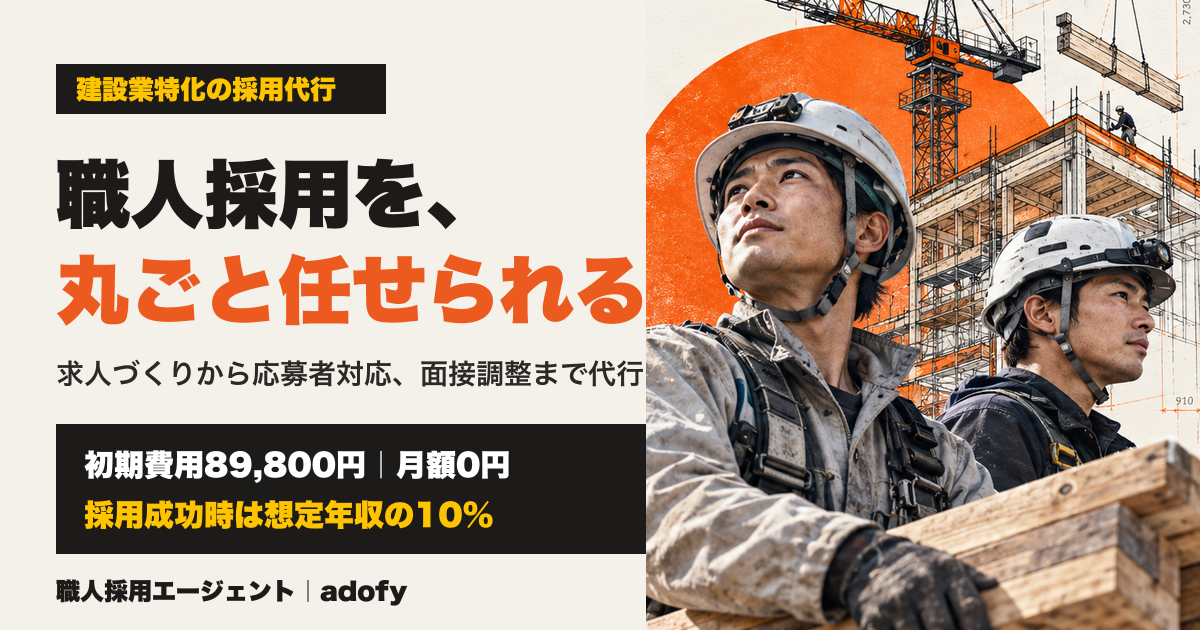
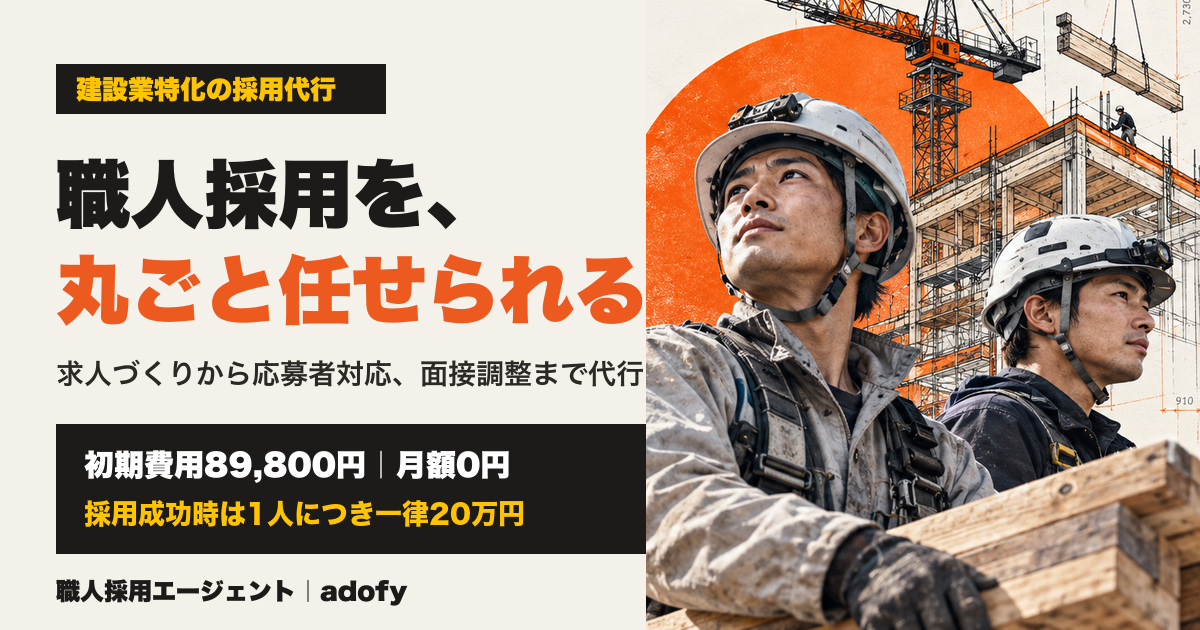
職人採用エージェントLP：成功報酬を1人につき一律20万円に変更（画像・比較・料金・FAQ・表記）

Changed region(s): [[0.0617, 0.7841, 0.4317, 0.8444]]

diff --git a/components/shokunin-agent/config.ts b/components/shokunin-agent/config.ts
@@ -44,13 +44,15 @@ export const NAV = [
 ] as const;
 
 /* ─── 料金（このLPの唯一の価格ソース） ─── */
-export const PRICE = { initial: 89800, monthly: 0, rate: 10 } as const;
-export const EXAMPLE_INCOME = 4_000_000;
-export const EXAMPLE_FEE = (EXAMPLE_INCOME * PRICE.rate) / 100;
-export const EXAMPLE_TOTAL = PRICE.initial + EXAMPLE_FEE;
+/** 成功報酬は採用1人につき一律（年収・職種によらない） */
+export const PRICE = { initial: 89800, monthly: 0, successFee: 200_000 } as const;
 export const yen = (n: number) => n.toLocaleString("ja-JP");
+/** 200000 → "20" （万円表記用） */
+export const SUCCESS_FEE_MAN = yen(PRICE.successFee / 10000);
+/** 1人採用したときの総額（初期費用＋成功報酬） */
+export const EXAMPLE_TOTAL = PRICE.initial + PRICE.successFee;
 
-export const PRICE_LINE = [`初期費用${yen(PRICE.initial)}円`, `月額${PRICE.monthly}円`, `採用成功時は想定年収の${PRICE.rate}%`] as const;
+export const PRICE_LINE = [`初期費用${yen(PRICE.initial)}円`, `月額${PRICE.monthly}円`, `採用成功時は1人につき一律${SUCCESS_FEE_MAN}万円`] as const;
 export const PRICE_FOOTNOTE = "詳細な料金条件は、ご契約前に書面でご案内します。";
 
 /* ─── FV ─── */
@@ -64,9 +66,9 @@ export const HERO = {
   ],
   /** 建設版の採用レスキュー（/kensetsu）と同じFV画像。見出し・料金は画像に焼き込み済み */
   image: {
-    pc: { src: "/images/saiyo-rescue/kensetsu/hero-pc.webp", w: 1672, h: 941 },
-    sp: { src: "/images/saiyo-rescue/kensetsu/hero-sp.webp", w: 941, h: 1672 },
-    alt: "建設業に特化した採用支援。人が足りずに、仕事を断っていませんか？職人・現場スタッフの応募獲得を支援。月額費用0円、初期費用89,800円、成果報酬は想定年収の10%。",
+    pc: { src: "/images/shokunin-agent/hero-pc.webp", w: 1672, h: 941 },
+    sp: { src: "/images/shokunin-agent/hero-sp.webp", w: 941, h: 1672 },
+    alt: "建設業に特化した採用支援。人が足りずに、仕事を断っていませんか？職人・現場スタッフの応募獲得を支援。月額費用0円、初期費用89,800円、成果報酬は一律20万円。",
   },
 } as const;
 
@@ -81,7 +83,7 @@ export const COST = {
       ["採用コスト", "103.3万円"],
       ["月額費用", "採用方法に|よって発生"],
       ["成功報酬", "―"],
-      ["想定年収|400万円の場合", "103.3万円"],
+      ["1人|採用した場合", "103.3万円"],
       ["応募者対応", "自社対応を|含む"],
       ["面接日程の|調整", "自社対応を|含む"],
     ],
@@ -93,19 +95,19 @@ export const COST = {
     rows: [
       ["採用コスト", `初期費用|${yen(PRICE.initial)}円|＋成功報酬`],
       ["月額費用", "0円"],
-      ["成功報酬", `想定年収の${PRICE.rate}%`],
-      ["想定年収|400万円の場合", `${yen(EXAMPLE_FEE / 10000)}万円`],
+      ["成功報酬", `1人につき|一律${SUCCESS_FEE_MAN}万円`],
+      ["1人|採用した場合", `${yen(EXAMPLE_TOTAL)}円`],
       ["応募者対応", "当社が|代行"],
       ["面接日程の|調整", "当社が|代行"],
     ],
   },
-  calc: [["成功報酬", `${yen(EXAMPLE_FEE)}円`]],
-  diff: "想定年収400万円の採用なら、|サービス料金は|平均採用コストより|**約54万円低い設計**",
+  calc: [["成功報酬（1人）", `${yen(PRICE.successFee)}円`]],
+  diff: "1人採用した場合、|サービス料金は|平均採用コストより|**約74万円低い設計**",
   cta: "採用コストを相談する",
   notes: [
     "出典：株式会社リクルート 就職みらい研究所『就職白書2020』。103.3万円は2019年度の中途採用1人あたりの平均採用コストであり、リクルートが提供する特定サービスの料金ではありません。",
     // 指定文の「広告費などの実費は含んでいません」は、広告費の負担条件を確認できるまで掲載しない
-    "約54万円の差は、想定年収400万円で採用した場合の成功報酬40万円に初期費用89,800円を足した489,800円との計算例です。広告費の扱いは、無料相談時に個別にご案内します。実際の費用は採用条件によって異なります。",
+    "約74万円の差は、1人採用した場合の成功報酬20万円に初期費用89,800円を足した289,800円との計算例です。広告費の扱いは、無料相談時に個別にご案内します。実際の費用は採用条件によって異なります。",
   ],
 } as const;
 
@@ -218,7 +220,7 @@ export const FLOW = [
 export const FAQS: { q: string; a: string[] }[] = [
   {
     q: "本当に月額費用はかかりませんか？",
-    a: [`はい。**月額費用は0円**です。料金は、初期費用${yen(PRICE.initial)}円と、採用成功時の成功報酬（想定年収の${PRICE.rate}%）です。${PRICE_FOOTNOTE}`],
+    a: [`はい。**月額費用は0円**です。料金は、初期費用${yen(PRICE.initial)}円と、採用成功時の成功報酬（1人につき一律${SUCCESS_FEE_MAN}万円）です。${PRICE_FOOTNOTE}`],
   },
   { q: "どのような職種に対応していますか？", a: [`${TRADES.join("、")}などの職種に対応しています。`] },
   {

diff --git a/components/shokunin-agent/Sections.tsx b/components/shokunin-agent/Sections.tsx
@@ -25,7 +25,7 @@ import {
   CTA_MAIN,
   CTA_WAITING,
   CTA_SUB,
-  EXAMPLE_FEE,
+  SUCCESS_FEE_MAN,
   FAQS,
   FINAL_TITLE,
   FLOW,
@@ -124,9 +124,9 @@ function PriceSummary() {
       <div>
         <dt>採用成功時</dt>
         <dd>
-          <small>想定年収の</small>
-          <b>{PRICE.rate}</b>
-          <span>%</span>
+          <small>一律</small>
+          <b>{SUCCESS_FEE_MAN}</b>
+          <span>万円</span>
         </dd>
       </div>
     </dl>
@@ -242,7 +242,7 @@ export function Cost() {
             <li key={n}>{n}</li>
           ))}
         </ul>
-        <dl className="sa-cost__calc" aria-label="想定年収400万円の場合の計算例">
+        <dl className="sa-cost__calc" aria-label="1人採用した場合の計算例">
           {COST.calc.map(([k, v]) => (
             <div key={k}>
               <dt>{k}</dt>
@@ -493,15 +493,15 @@ export function Pricing() {
             <div className="ks-plan__row">
               <p className="ks-plan__label">採用成功報酬</p>
               <p className="ks-plan__price">
-                <small>想定年収の</small>
-                <b>{PRICE.rate}</b>
-                <span>%</span>
+                <small>1人につき一律</small>
+                <b>{SUCCESS_FEE_MAN}</b>
+                <span>万円</span>
               </p>
             </div>
           </div>
           <div className="ks-plan__example">
             <p className="ks-plan__example-title">計算例</p>
-            <p className="sa-example">想定年収400万円の場合、採用成功報酬は{yen(EXAMPLE_FEE / 10000)}万円</p>
+            <p className="sa-example">2人採用した場合、採用成功報酬は{yen((PRICE.successFee * 2) / 10000)}万円</p>
           </div>
           <div className="ks-plan__cta">
             <Cta location="pricing" label="自社の場合の料金を相談する" />
@@ -636,7 +636,7 @@ const LEGAL: { id: string; title: string; items: { term: string; desc: string; h
       { term: "所在地", desc: `${OPERATOR.area}　※詳細はご請求があれば遅滞なく開示します` },
       { term: "電話番号", desc: PHONE, href: `tel:${PHONE.replace(/-/g, "")}` },
       { term: "メールアドレス", desc: OPERATOR.email, href: `mailto:${OPERATOR.email}` },
-      { term: "販売価格", desc: `初期費用 ${yen(PRICE.initial)}円 / 月額費用 ${PRICE.monthly}円 / 採用成功報酬 想定年収の${PRICE.rate}%` },
+      { term: "販売価格", desc: `初期費用 ${yen(PRICE.initial)}円 / 月額費用 ${PRICE.monthly}円 / 採用成功報酬 1人につき一律${yen(PRICE.successFee)}円` },
       { term: "支払時期・支払方法", desc: PREPARING },
       { term: "役務の提供時期", desc: PREPARING },
       { term: "返金について", desc: PREPARING },

diff --git a/lib/saiyoRescue/leads.ts b/lib/saiyoRescue/leads.ts
@@ -106,7 +106,7 @@ export const PLAN_LABEL: Record<string, string> = {
   /** 建設業向けLP（/kensetsu）からの問い合わせ。フォームが自動で付与する（プラン選択ではなく流入LPの識別） */
   kensetsu: "建設業LP経由（初期費用89,800円・月額0円・成果報酬 想定年収の10%）",
   /** 職人採用エージェントLP（/shokunin-agent）からの問い合わせ。フォームが自動で付与する */
-  shokunin: "職人採用エージェント経由（初期費用89,800円・月額0円・採用成功時 想定年収の10%）",
+  shokunin: "職人採用エージェント経由（初期費用89,800円・月額0円・採用成功時 1人につき一律20万円）",
 };
 
 /** 建設業向けLP経由の問い合わせか */
